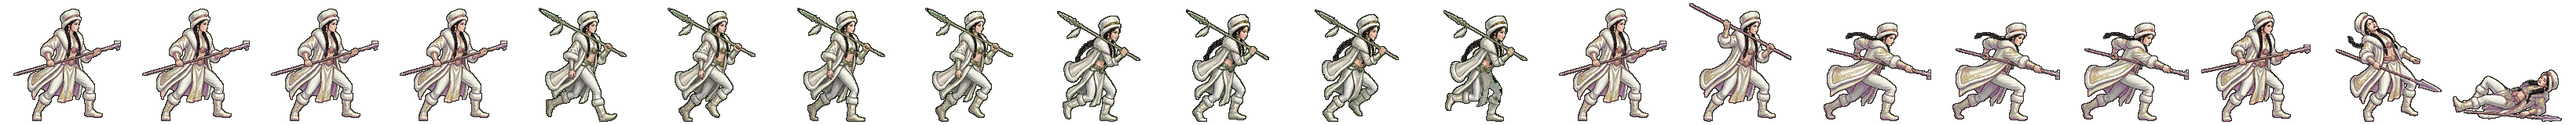
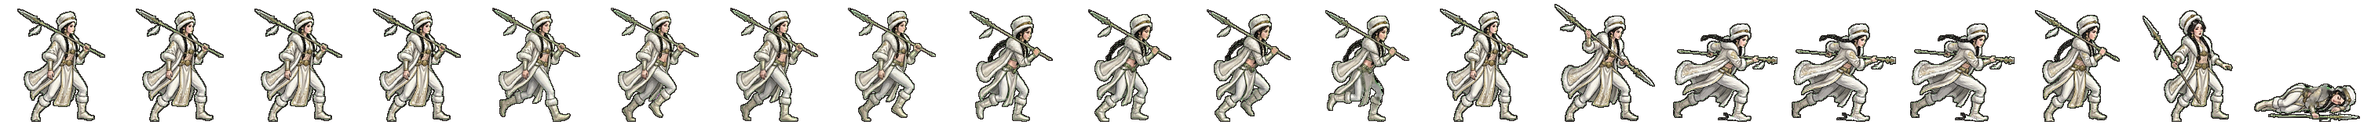
전투 띠 새로: 가온 동작 띠 다시 — 창을 두 손으로 잡고 찌른다 (흰 깃털 조각 없앰 · 4번 칸은 창이 칸 밖이라 3번으로 · 검수 1번) (형 11-08)
Claude-Session: https://claude.ai/code/session_01TRiuNAG8xSjdmjCFpc8Rd5

Changed region(s): [[0.0, 0.0312, 0.996, 0.9688]]

diff --git a/src/ui/realm/battle-strikes.ts b/src/ui/realm/battle-strikes.ts
@@ -143,7 +143,7 @@ const CONTACT: Readonly<Record<string, [number, number, number]>> = {
   'gen-haebi': [14, 0.87, 0.53], 'gen-heo': [14, 0.94, 0.46], 'gen-hyeokgeose': [14, 0.83, 0.94],
   'gen-hyeopbo': [14, .93, .21], 'gen-malgalgi': [14, 0.88, 0.28], 'gen-mari': [14, .98, .47],
   'gen-oi': [14, .98, .48], 'gen-onjo': [14, 0.83, 0.93], 'gen-soebi': [14, 0.80, 0.95],
-  'gen-soseono': [14, 0.92, 0.31], 'gen-maryeo': [14, 0.91, 0.79], 'gen-horselord': [14, 0.89, 0.25], 'gen-olddaeso': [14, 0.93, 0.91], 'gen-maro': [14, 0.97, 0.49], 'gen-gwaeyu': [14, 0.98, 0.71], 'gen-daemusin': [14, 0.91, 0.38], 'gen-tahae': [14, 0.91, 0.74], 'gen-ocheongan': [14, 0.82, 0.49], 'gen-yusugan': [14, 0.95, 0.70], 'gen-odogan': [14, 0.93, 0.28], 'gen-pidogan': [14, 0.94, 0.75], 'gen-yeodogan': [14, 0.93, 0.57], 'gen-adogan': [14, 0.95, 0.41], 'gen-musoe': [14, 0.94, 0.39], 'gen-suro': [14, 0.82, 0.53], 'gen-waechief': [14, 0.95, 0.68], 'gen-hojin': [14, 0.97, 0.64], 'gen-jita': [14, 0.94, 0.34], 'gen-guryema': [14, 0.89, 0.28], 'gen-jibaekho': [14, 0.97, 0.33], 'gen-sobeol': [14, 0.95, 0.33], 'gen-alpyeong': [14, 0.95, 0.54], 'gen-hogong': [14, 0.98, 0.27], 'gen-geumbawi': [14, 0.91, 0.92], 'gen-keundol': [14, 0.90, 0.68], 'gen-jinha': [14, 0.76, 0.93], 'gen-duman': [14, 0.97, 0.39], 'gen-gomok': [14, 0.94, 0.57], 'gen-hneoul': [14, 0.92, 0.27], 'gen-tneoul': [14, 0.84, 0.57], 'gen-sdallae': [14, 0.89, 0.29], 'gen-yucheongan': [14, 0.97, 0.64], 'gen-sincheongan': [14, 0.91, 0.71], 'gen-singwigan': [14, 0.91, 0.27], 'gen-mdallae': [14, 0.98, 0.30], 'gen-mulbeom': [14, 0.97, 0.36], 'gen-beomi': [14, 0.88, 0.43], 'gen-danbi': [14, 0.90, 0.30], 'gen-mulsae': [14, 0.93, 0.36], 'gen-darae': [14, 0.89, 0.29], 'gen-mir': [14, 0.91, 0.33], 'gen-wan': [14, 0.94, 0.30], 'gen-gom': [14, 0.94, 0.74], 'gen-sagong': [14, 0.79, 0.96], 'gen-halla': [14, 0.86, 0.46], 'gen-areum': [14, 0.86, 0.65], 'gen-dokmudeom': [14, 0.92, 0.29], 'gen-beom': [14, 0.98, 0.28], 'gen-baram': [14, 0.96, 0.24], 'gen-goeun': [14, 0.95, 0.66], 'gen-byeol': [14, 0.76, 0.96], 'gen-sinneoul': [14, 0.94, 0.33], 'gen-haesol': [14, 0.91, 0.47], 'gen-odi': [14, 0.95, 0.37], 'gen-irang': [14, 0.86, 0.30], 'gen-dalli': [14, 0.89, 0.32], 'gen-bakdal': [14, 0.94, 0.27], 'gen-noeul': [14, 0.88, 0.27], 'gen-maehwa': [14, 0.90, 0.31], 'gen-gaon': [14, 0.98, 0.59], 'gen-eomni': [14, 0.96, 0.42], 'gen-nuri': [14, 0.93, 0.66], 'gen-bira': [14, 0.88, 0.33], 'gen-gureum': [14, 0.98, 0.42],
+  'gen-soseono': [14, 0.92, 0.31], 'gen-maryeo': [14, 0.91, 0.79], 'gen-horselord': [14, 0.89, 0.25], 'gen-olddaeso': [14, 0.93, 0.91], 'gen-maro': [14, 0.97, 0.49], 'gen-gwaeyu': [14, 0.98, 0.71], 'gen-daemusin': [14, 0.91, 0.38], 'gen-tahae': [14, 0.91, 0.74], 'gen-ocheongan': [14, 0.82, 0.49], 'gen-yusugan': [14, 0.95, 0.70], 'gen-odogan': [14, 0.93, 0.28], 'gen-pidogan': [14, 0.94, 0.75], 'gen-yeodogan': [14, 0.93, 0.57], 'gen-adogan': [14, 0.95, 0.41], 'gen-musoe': [14, 0.94, 0.39], 'gen-suro': [14, 0.82, 0.53], 'gen-waechief': [14, 0.95, 0.68], 'gen-hojin': [14, 0.97, 0.64], 'gen-jita': [14, 0.94, 0.34], 'gen-guryema': [14, 0.89, 0.28], 'gen-jibaekho': [14, 0.97, 0.33], 'gen-sobeol': [14, 0.95, 0.33], 'gen-alpyeong': [14, 0.95, 0.54], 'gen-hogong': [14, 0.98, 0.27], 'gen-geumbawi': [14, 0.91, 0.92], 'gen-keundol': [14, 0.90, 0.68], 'gen-jinha': [14, 0.76, 0.93], 'gen-duman': [14, 0.97, 0.39], 'gen-gomok': [14, 0.94, 0.57], 'gen-hneoul': [14, 0.92, 0.27], 'gen-tneoul': [14, 0.84, 0.57], 'gen-sdallae': [14, 0.89, 0.29], 'gen-yucheongan': [14, 0.97, 0.64], 'gen-sincheongan': [14, 0.91, 0.71], 'gen-singwigan': [14, 0.91, 0.27], 'gen-mdallae': [14, 0.98, 0.30], 'gen-mulbeom': [14, 0.97, 0.36], 'gen-beomi': [14, 0.88, 0.43], 'gen-danbi': [14, 0.90, 0.30], 'gen-mulsae': [14, 0.93, 0.36], 'gen-darae': [14, 0.89, 0.29], 'gen-mir': [14, 0.91, 0.33], 'gen-wan': [14, 0.94, 0.30], 'gen-gom': [14, 0.94, 0.74], 'gen-sagong': [14, 0.79, 0.96], 'gen-halla': [14, 0.86, 0.46], 'gen-areum': [14, 0.86, 0.65], 'gen-dokmudeom': [14, 0.92, 0.29], 'gen-beom': [14, 0.98, 0.28], 'gen-baram': [14, 0.96, 0.24], 'gen-goeun': [14, 0.95, 0.66], 'gen-byeol': [14, 0.76, 0.96], 'gen-sinneoul': [14, 0.94, 0.33], 'gen-haesol': [14, 0.91, 0.47], 'gen-odi': [14, 0.95, 0.37], 'gen-irang': [14, 0.86, 0.30], 'gen-dalli': [14, 0.89, 0.32], 'gen-bakdal': [14, 0.94, 0.27], 'gen-noeul': [14, 0.88, 0.27], 'gen-maehwa': [14, 0.90, 0.31], 'gen-gaon': [14, 0.98, 0.48], 'gen-eomni': [14, 0.96, 0.42], 'gen-nuri': [14, 0.93, 0.66], 'gen-bira': [14, 0.88, 0.33], 'gen-gureum': [14, 0.98, 0.42],
   'gen-biryu': [14, 0.90, 0.35], 'gen-geumha': [14, 0.94, 0.61], 'gen-geota': [14, 0.86, 0.47], 'gen-soebo': [14, 0.87, 0.57],
   'gen-gaennae': [14, 249 / 264, 47 / 160],
   'gen-budeul': [14, 266 / 280, 51 / 160],

diff --git a/src/realm/data/art.ts b/src/realm/data/art.ts
@@ -513,7 +513,7 @@ export const GEN_ANIM: Readonly<Partial<Record<string, { ar: number; body: numbe
   bakdal: { ar: 155 / 160, body: 0.894, bow: true }, // 11-08 초상대로 다시 (형: 「투구 쓰고 원본과 다르다」 · 제미나이 걷기 4×2 + 동작 4×2 → 20컷 · assets_src/realm/gemini/generals2) · 11-08 처음 · 범 가죽 짧은 망토·황토 짧은 윗옷·뼈 구슬 목걸이·큰 맥궁
   noeul: { ar: 153 / 160, body: 0.881, bow: true }, // 11-08 초상대로 다시 (형: 「투구 쓰고 원본과 다르다」 · 제미나이 걷기 4×2 + 동작 4×2 → 20컷 · assets_src/realm/gemini/generals2) · 11-08 처음 · 땋은 머리·주황 짧은 비단 윗옷과 치마·흰 깃 화살통·맥궁
   maehwa: { ar: 143 / 160, body: 0.894, bow: true }, // 11-08 초상대로 다시 (형: 「투구 쓰고 원본과 다르다」 · 제미나이 걷기 4×2 + 동작 4×2 → 20컷 · assets_src/realm/gemini/generals2) · 11-08 처음 · 깃 머리띠·짙은 붉은 짧은 저고리·꿩깃 화살통·맥궁
-  gaon: { ar: 164 / 160, body: 0.894 }, // 11-08 초상대로 다시 (형: 「투구 쓰고 원본과 다르다」 · 제미나이 걷기 4×2 + 동작 4×2 → 20컷 · assets_src/realm/gemini/generals2) · 11-08 처음 · 부여 가온 동작 다시 — 창을 두 손으로 잡고 아래로 찌른다 (흰 깃털 조각·창날 없는 찌르기 고침 · 제미나이 u/1 · 11-09 띠 검수)
+  gaon: { ar: 151 / 160, body: 0.900 }, // 11-08 초상대로 다시 (형: 「투구 쓰고 원본과 다르다」 · 제미나이 걷기 4×2 + 동작 4×2 → 20컷 · assets_src/realm/gemini/generals2) · 11-08 처음 · 가온 동작 띠 다시 — 창을 두 손으로 잡고 찌른다 (흰 깃털 조각 없앰 · 4번 칸은 창이 칸 밖이라 3번으로 · 검수 1번)
   eomni: { ar: 159 / 160, body: 0.900 }, // 11-08 초상대로 다시 (형: 「투구 쓰고 원본과 다르다」 · 제미나이 걷기 4×2 + 동작 4×2 → 20컷 · assets_src/realm/gemini/generals2) · 11-08 처음 · 땋은 머리·검은 곰 털 망토·짧은 흰 윗옷·이빨 목걸이·쇠 창 찌르기 · 걷기는 창을 어깨에 멘 아랫줄만
   nuri: { ar: 170 / 160, body: 0.894 }, // 11-08 초상대로 다시 (형: 「투구 쓰고 원본과 다르다」 · 제미나이 걷기 4×2 + 동작 4×2 → 20컷 · assets_src/realm/gemini/generals2) · 11-08 처음 · 구가 누리 동작 다시 — 창을 두 손으로 잡고 아래로 찌른다 (빈 주먹·창날 없는 찌르기 고침 · 제미나이 u/2 · 11-09 띠 검수)
   bira: { ar: 156 / 160, body: 0.900 }, // 11-08 초상대로 다시 (형: 「투구 쓰고 원본과 다르다」 · 제미나이 걷기 4×2 + 동작 4×2 → 20컷 · assets_src/realm/gemini/generals2) · 11-08 처음 · 푸른 깃 머리띠·푸른 짧은 조끼·밧줄 타래·조개 목걸이·작살 창 찌르기 · 걷기는 아랫줄만
